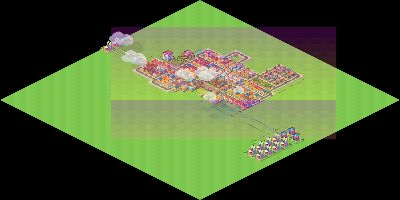
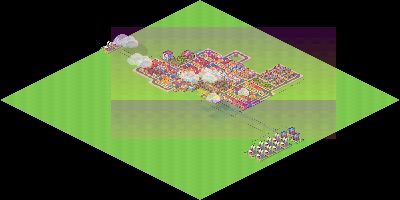
fix: standardize z-index to tile-based formula across all sprites
Replaced screen-based (screenY / TILE_HEIGHT) z-index calculations with
consistent tile-based (x+y)*NUM_LAYERS + LAYER_* formula in vehicles,
traffic lights, street lamps, and sprite metadata tweaks.

Changed region(s): [[0.27, 0.15, 0.66, 0.54], [0.39, 0.42, 0.42, 0.45]]

diff --git a/client/js/render/vehicles.js b/client/js/render/vehicles.js
@@ -95,12 +95,11 @@ function getVehicleRotation(vehicle, cardinalDir) {
 }
 
 /**
- * Compute vehicle z-index from screen Y position.
- * Scale screen Y to match tile-based z-index range
- * (NUM_LAYERS per TILE_HEIGHT/2 pixels of depth).
+ * Compute vehicle z-index from tile coordinates.
+ * Uses the same (x+y)*NUM_LAYERS + LAYER formula as buildings/roads.
  */
 function vehicleZIndex(vehicle) {
-  return Math.round((vehicle.sprite.y / (TILE_HEIGHT / 2)) * NUM_LAYERS);
+  return (Math.floor(vehicle.x) + Math.floor(vehicle.y)) * NUM_LAYERS + LAYER_VEHICLE;
 }
 
 function applyVehicleScale(sprite, config) {
@@ -862,7 +861,7 @@ export function createTrafficLightSprites(
     sprite.x = pos.px;
     sprite.y = pos.py;
     sprite.scale.set(TRAFFIC_LIGHT_SCALE);
-    sprite.zIndex = Math.round((pos.py / (TILE_HEIGHT / 2)) * NUM_LAYERS);
+    sprite.zIndex = (tileX + tileY) * NUM_LAYERS + LAYER_POLE;
     container.addChild(sprite);
 
     // Create glow sprite (tint + Y position set by animateTrafficGlowLights)
@@ -875,7 +874,7 @@ export function createTrafficLightSprites(
     glow.width = 8;
     glow.height = 8;
     glow.alpha = 0.8;
-    glow.zIndex = Math.round((glow.y / (TILE_HEIGHT / 2)) * NUM_LAYERS) - (FRONT_FACING[texName] ? 1 : 0);
+    glow.zIndex = (tileX + tileY) * NUM_LAYERS + LAYER_POLE - (FRONT_FACING[texName] ? 1 : 0);
     container.addChild(glow);
 
     sprites.push({
@@ -1222,8 +1221,6 @@ export function drawVehicle(x, y) {
   g.drawEllipse(iso.x, iso.y + 4, 8, 4);
   g.endFill();
 
-  g.zIndex = Math.round(
-    ((iso.y / 10 + TILE_HEIGHT / 2) / (TILE_HEIGHT / 2)) * NUM_LAYERS,
-  );
+  g.zIndex = (Math.floor(x) + Math.floor(y)) * NUM_LAYERS + LAYER_VEHICLE;
   return g;
 }

diff --git a/client/js/game.js b/client/js/game.js
@@ -574,7 +574,7 @@ function drawBuilding(x, y, building) {
     );
     result.x += state.streetLampOffsetX;
     result.y += state.streetLampOffsetY;
-    result.zIndex = Math.round((result.y / (TILE_HEIGHT / 2)) * NUM_LAYERS);
+    result.zIndex = (x + y) * NUM_LAYERS + LAYER_POLE;
     return result;
   }
 
